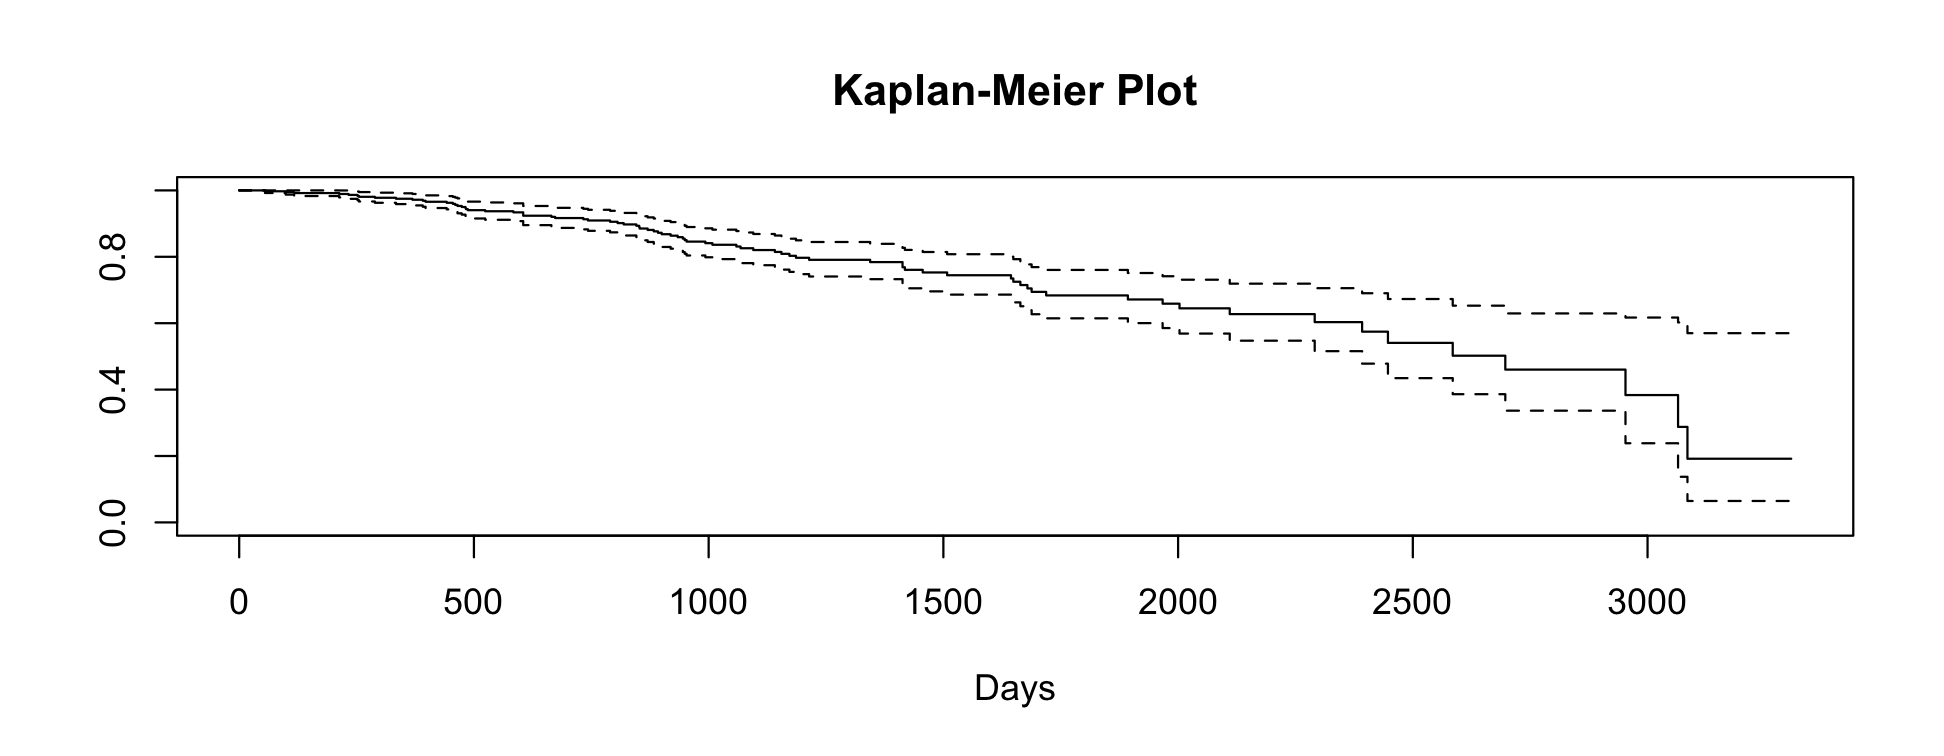
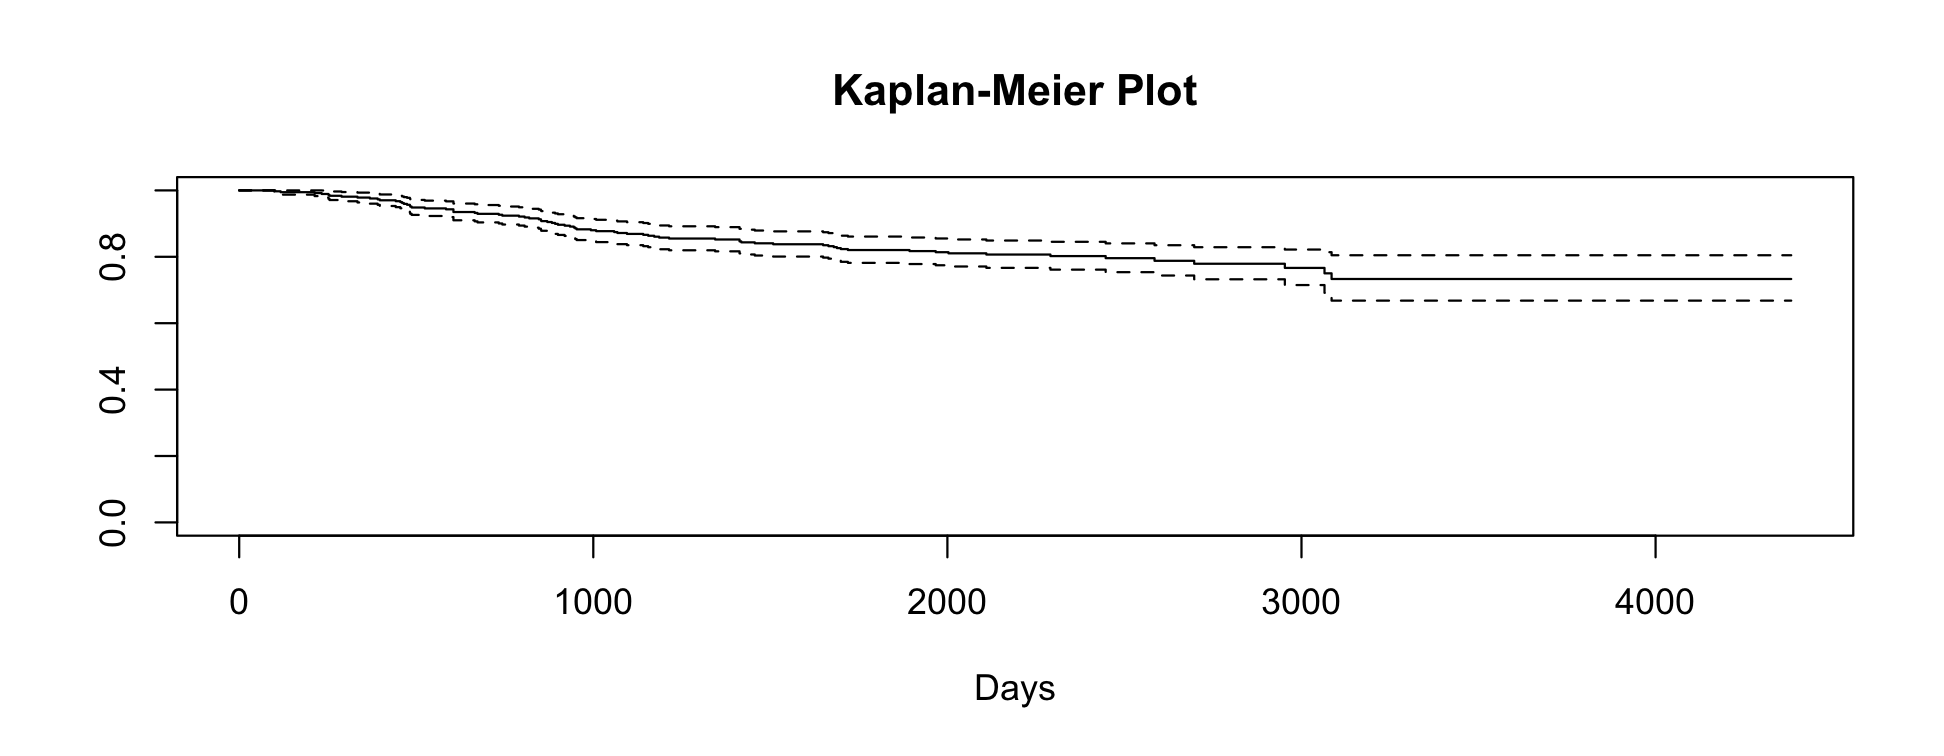
removed simulated follow-up for brooke and used longest time in follow-up file.

diff --git a/slides/07_categorical-stats.html b/slides/07_categorical-stats.html
@@ -403,7 +403,24 @@ The Kaplan-Meier estimator calculates the survival probability at each time poin
 
 This is used over traditional modeling (like linear regression) because it takes into account censored data (i.e., when a patient hasn't died but are no longer in contact/lost to follow-up).
 
-***Time to last follow-up is simulated for those who had not died. Do not interpret the results as if they are real.***
+---
+
+## Survival with Kaplan-Meier
+
+Merge `target_p2` with the follow-up data for survival analysis
+
+
+``` r
+followup = read_delim(here::here("data/TARGET_P2_follow_up.tsv")) %&gt;%
+  select(case_submitter_id, days_to_follow_up) %&gt;%
+  mutate(days_to_follow_up = as.numeric(days_to_follow_up)) %&gt;%
+  arrange(desc(days_to_follow_up)) %&gt;%
+  group_by(case_submitter_id) %&gt;%
+  slice(1)
+target_p2 = target_p2 %&gt;%
+  full_join(followup)
+```
+
 
 ---
 
@@ -417,19 +434,19 @@ Data preparation. Our `event` variable (typically death but could be any event l
 
 ``` r
 target_p2 %&gt;% 
-  select(days_to_death, vital_status) %&gt;%
+  select(days_to_follow_up, vital_status) %&gt;%
   mutate(event = case_when(vital_status == "Alive" ~ 0,
                            TRUE ~ 1)) %&gt;%
   head() %&gt;% data.frame()
 ```
 
-&lt;pre class='remark-code-small'&gt;  days_to_death vital_status event
-1          1015        Alive     0
-2          2132        Alive     0
-3           123        Alive     0
-4           836        Alive     0
-5           397         Dead     1
-6           592        Alive     0&lt;/pre&gt;
+&lt;pre class='remark-code-small'&gt;  days_to_follow_up vital_status event
+1               208        Alive     0
+2              2006        Alive     0
+3              3529        Alive     0
+4              3010        Alive     0
+5               397         Dead     1
+6              3087        Alive     0&lt;/pre&gt;
 
 ]
 
@@ -439,20 +456,23 @@ Takes form of `Surv(time, event)`
 
 
 ``` r
-km_fit &lt;- survfit(Surv(days_to_death, event) ~ 1, data=target_p2)
+km_fit &lt;- survfit(Surv(days_to_follow_up, event) ~ 1, data=target_p2)
 summary(km_fit, times = seq(0, 4000, by = 500))
 ```
 
-&lt;pre class='remark-code-small'&gt;Call: survfit(formula = Surv(days_to_death, event) ~ 1, data = target_p2)
+&lt;pre class='remark-code-small'&gt;Call: survfit(formula = Surv(days_to_follow_up, event) ~ 1, data = target_p2)
 
+3 observations deleted due to missingness 
  time n.risk n.event survival std.err lower 95&amp;#37 CI upper 95&amp;#37 CI
-    0    378       0    1.000  0.0000        1.000        1.000
-  500    294      20    0.940  0.0130        0.915        0.966
- 1000    175      25    0.841  0.0222        0.799        0.886
- 1500     91      14    0.753  0.0302        0.696        0.814
- 2000     48       9    0.659  0.0397        0.585        0.741
- 2500     16       5    0.541  0.0603        0.435        0.673
- 3000      5       3    0.384  0.0930        0.238        0.617&lt;/pre&gt;
+    0    375       0    1.000  0.0000        1.000        1.000
+  500    349      19    0.948  0.0115        0.926        0.971
+ 1000    319      25    0.880  0.0170        0.847        0.914
+ 1500    292      14    0.841  0.0192        0.804        0.879
+ 2000    242       9    0.814  0.0206        0.775        0.855
+ 2500    114       4    0.796  0.0221        0.754        0.840
+ 3000     55       3    0.767  0.0273        0.715        0.822
+ 3500     26       2    0.733  0.0348        0.668        0.805
+ 4000      9       0    0.733  0.0348        0.668        0.805&lt;/pre&gt;
 
 ]
 
@@ -477,7 +497,7 @@ plot(km_fit, xlab = "Days", main = "Kaplan-Meier Plot")
 
 
 ``` r
-km_fit_gender &lt;- survfit(Surv(days_to_death, event) ~ gender, data=target_p2)
+km_fit_gender &lt;- survfit(Surv(days_to_follow_up, event) ~ gender, data=target_p2)
 plot(km_fit_gender, lty=2:3)
 legend(100, .3, c("Female", "Male"), lty = 2:3) 
 ```
@@ -485,7 +505,7 @@ legend(100, .3, c("Female", "Male"), lty = 2:3)
 
 .panel[.panel-name[Plot]
 
-&lt;img src="07_categorical-stats_files/figure-html/unnamed-chunk-11-1.png" width="100%" /&gt;
+&lt;img src="07_categorical-stats_files/figure-html/unnamed-chunk-12-1.png" width="100%" /&gt;
 ]
 ]
 
@@ -497,7 +517,7 @@ To extract model statistics we can fit using `coxph` instead of `survfit`
 
 
 ``` r
-km_fit_gender_cph &lt;- coxph(Surv(days_to_death, event) ~ gender, data=target_p2)
+km_fit_gender_cph &lt;- coxph(Surv(days_to_follow_up, event) ~ gender, data=target_p2)
 summary(km_fit_gender_cph)
 ```
 
@@ -508,25 +528,23 @@ summary(km_fit_gender_cph)
 To extract model statistics we can fit using `coxph` instead of `survfit`
 
 &lt;pre class='remark-code-small'&gt;Call:
-coxph(formula = Surv(days_to_death, event) ~ gender, data = target_p2)
+coxph(formula = Surv(days_to_follow_up, event) ~ gender, data = target_p2)
 
-  n= 378, number of events= 78 
+  n= 375, number of events= 76 
+   (3 observations deleted due to missingness)
 
-              coef exp(coef) se(coef)      z Pr(&amp;gt;|z|)  
-gendermale -0.4255    0.6534   0.2363 -1.801   0.0717 .
-&amp;#45;&amp;#45;&amp;#45;
-Signif. codes:  0 '&amp;#42;&amp;#42;&amp;#42;' 0.001 '&amp;#42;&amp;#42;' 0.01 '&amp;#42;' 0.05 '.' 0.1 ' ' 1
+              coef exp(coef) se(coef)      z Pr(&amp;gt;|z|)
+gendermale -0.1654    0.8475   0.2385 -0.694    0.488
 
            exp(coef) exp(-coef) lower .95 upper .95
-gendermale    0.6534       1.53    0.4112     1.038
+gendermale    0.8475       1.18     0.531     1.353
 
-Concordance= 0.544  (se = 0.032 )
-Likelihood ratio test= 3.11  on 1 df,   p=0.08
-Wald test            = 3.24  on 1 df,   p=0.07
-Score (logrank) test = 3.29  on 1 df,   p=0.07
+Concordance= 0.53  (se = 0.029 )
+Likelihood ratio test= 0.47  on 1 df,   p=0.5
+Wald test            = 0.48  on 1 df,   p=0.5
+Score (logrank) test = 0.48  on 1 df,   p=0.5
 &lt;/pre&gt;
 
-The p-value fo r `gendermale` is greater than larger than our typical 0.05 indicating there is not a significant difference between gender survival times.
 
 ---
 
